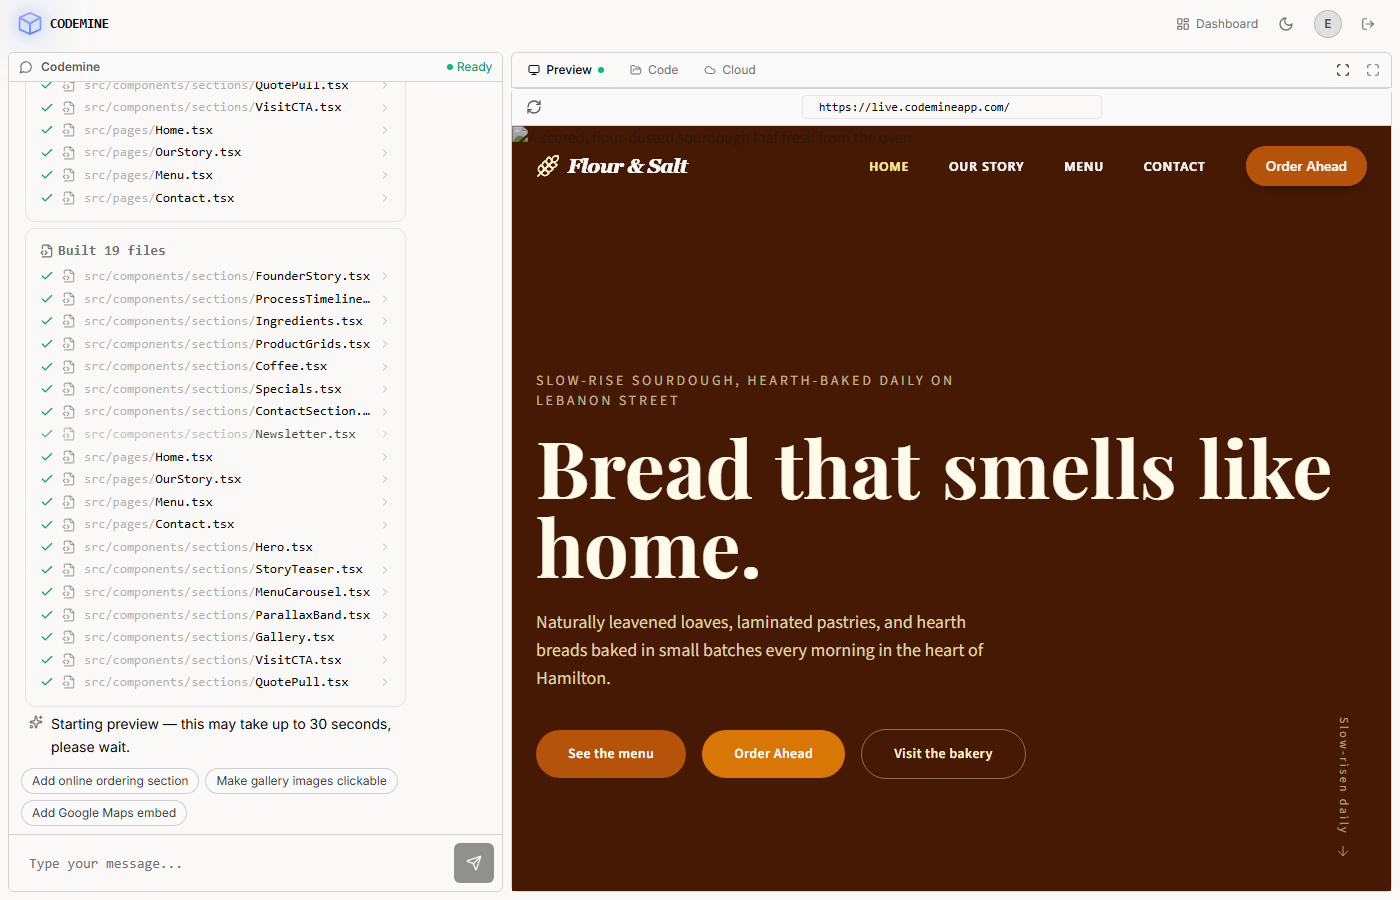
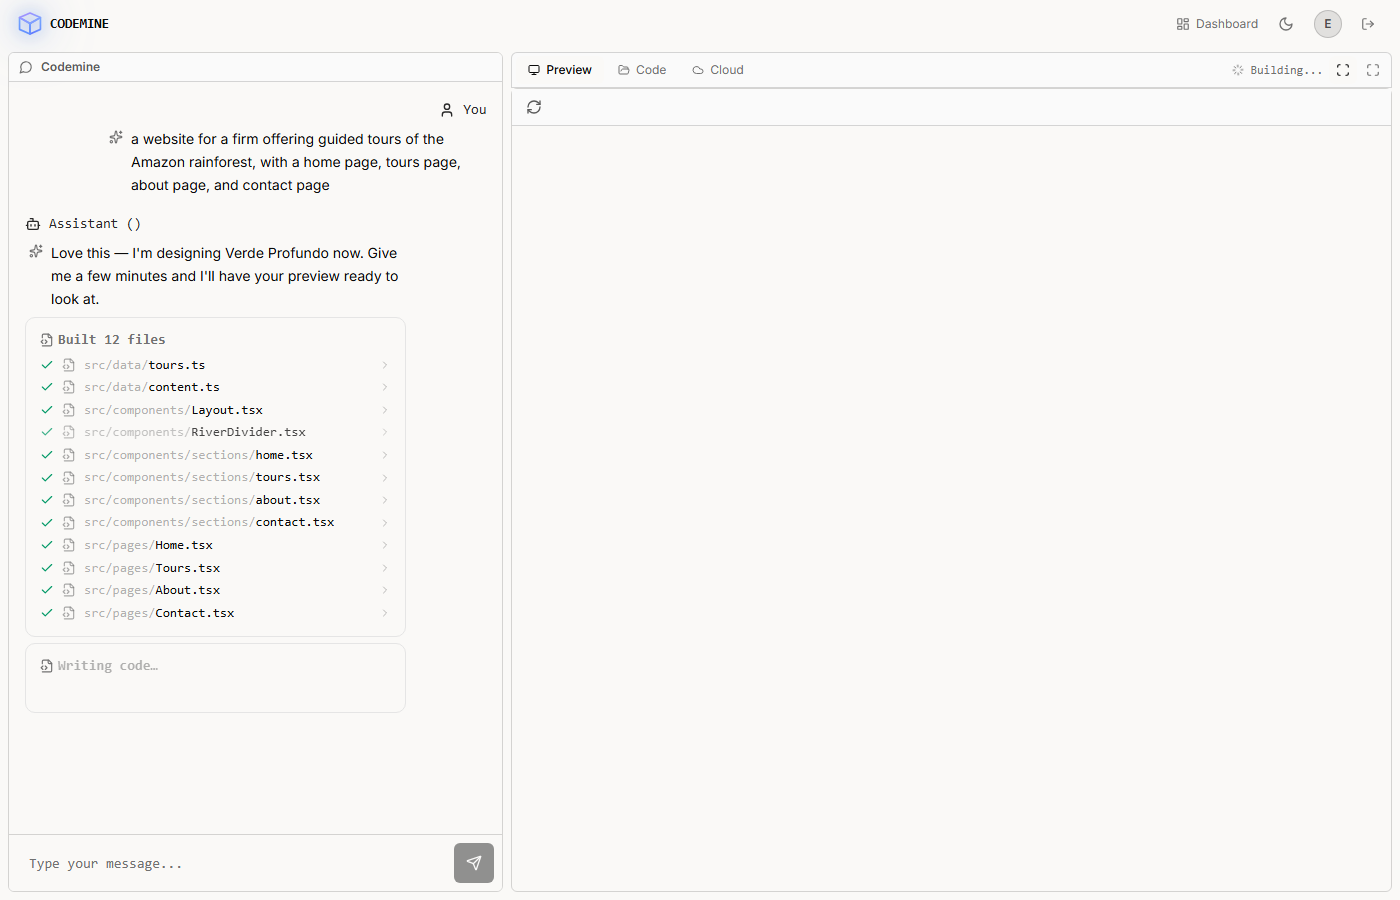
Quality gates: navbar check + scroll check + better image keywords + Kimi K2.6
functionalVerify now detects two critical UX failures before reveal:
- Navbar gate: reports missing <nav> on websites so repair loop fixes it
- Scroll gate: detects overflow:hidden/clip on html/body that silently kills
  all page scrolling

getUnsplashBatch: keyword description now REQUIRES product/industry-specific
terms. "shoes" is banned; "premium handcrafted leather Oxford shoes close-up"
is the standard. This fixes the cars/watches-in-testimonials class of wrong
image bug.

constants.ts: FILE_GENERATION_MODEL switched from Sonnet 5 ($10/M output,
$1.29/build) to Kimi K2.6 ($2.50/M, est. $0.33/build). Purpose-built for
agentic multi-file generation, SWE-bench Pro #1. Env-overridable via
CM_FILE_MODEL without a code change.

diff --git a/lib/pipeline-helpers.ts b/lib/pipeline-helpers.ts
@@ -1119,6 +1119,11 @@ export async function functionalVerify(url: string, userRequest: string, skill: 
       const brokenImgs = imgs.filter(i => i.complete && i.naturalWidth === 0).map(i => (i.getAttribute('src') || i.getAttribute('alt') || 'image').slice(0, 60))
       const sections = q('section, [data-section], main > div')
       const emptySections = sections.filter(s => ((s as HTMLElement).innerText || '').trim().length < 8 && !s.querySelector('img, canvas, svg, video')).length
+      // Scroll check: overflow:hidden on html or body silently kills scrolling
+      const htmlOF = window.getComputedStyle(document.documentElement)
+      const bodyOF = window.getComputedStyle(document.body)
+      const scrollBlocked = ['hidden', 'clip'].includes(htmlOF.overflow) || ['hidden', 'clip'].includes(bodyOF.overflow) ||
+        ['hidden', 'clip'].includes(htmlOF.overflowY) || ['hidden', 'clip'].includes(bodyOF.overflowY)
       return {
         buttons: q('button, [role=button], a[href]').slice(0, 12).map(label),
         inputs: q('input, textarea, select').slice(0, 8).map(label),
@@ -1129,8 +1134,10 @@ export async function functionalVerify(url: string, userRequest: string, skill: 
         imgCount: imgs.length,
         brokenImgs: brokenImgs.slice(0, 6),
         emptySections,
+        navCount: q('nav, [role="navigation"], header nav').length,
+        scrollBlocked,
       }
-    }).catch(() => ({ buttons: [] as string[], inputs: [] as string[], headings: [] as string[], hasCanvas: false, buttonCount: 0, inputCount: 0, imgCount: 0, brokenImgs: [] as string[], emptySections: 0 }))
+    }).catch(() => ({ buttons: [] as string[], inputs: [] as string[], headings: [] as string[], hasCanvas: false, buttonCount: 0, inputCount: 0, imgCount: 0, brokenImgs: [] as string[], emptySections: 0, navCount: 1, scrollBlocked: false }))
 
     const responded: string[] = []
     const dead: string[] = []
@@ -1172,6 +1179,8 @@ export async function functionalVerify(url: string, userRequest: string, skill: 
       `Controls that did NOT respond (dead): ${dead.join(', ') || '(none)'}\n` +
       `Images: ${inventory.imgCount} total, ${inventory.brokenImgs.length} BROKEN: ${inventory.brokenImgs.join(', ') || '(none)'}\n` +
       `Empty sections: ${inventory.emptySections}\n` +
+      `Navigation bars (<nav>): ${inventory.navCount}\n` +
+      `Scroll blocked (overflow:hidden on html/body): ${inventory.scrollBlocked}\n` +
       `Screen changed during use: ${before !== after}`
 
     let ok = dead.length === 0
@@ -1179,6 +1188,10 @@ export async function functionalVerify(url: string, userRequest: string, skill: 
     const contentIssues: string[] = []
     if (inventory.brokenImgs.length > 0) contentIssues.push(`Broken images: ${inventory.brokenImgs.join(', ')}. Use Unsplash URLs.`)
     if (inventory.emptySections >= 2) contentIssues.push(`${inventory.emptySections} sections are EMPTY. Fill every section with real copy and imagery.`)
+    // Navbar gate: websites MUST have a nav bar — it's the primary navigation for multi-page sites
+    if (skill === 'website' && inventory.navCount === 0) contentIssues.push('No navigation bar found (<nav> element missing). Layout.tsx MUST render a sticky nav with links to all pages. Add it now.')
+    // Scroll gate: overflow:hidden on html/body silently kills all scrolling
+    if (inventory.scrollBlocked) contentIssues.push('Page scroll is BLOCKED — overflow:hidden or overflow:clip is set on <html> or <body>. Remove it. Use overflow:hidden only on specific contained sections, never on the root.')
     try {
       const res = await generateText({
         ...getModelOptions(ERROR_MODEL),

diff --git a/ai/tools/get-unsplash-batch.ts b/ai/tools/get-unsplash-batch.ts
@@ -72,11 +72,14 @@ export const getUnsplashBatch = () =>
   tool({
     description:
       'Fetch multiple photo URLs in one call — all requests run in parallel. Use this instead of calling getUnsplash multiple times. ' +
-      'Pass all image keywords at once. Returns an array of URLs in the same order as the input keywords.',
+      'Pass all image keywords at once. Returns an array of URLs in the same order as the input keywords. ' +
+      'CRITICAL: every keyword MUST include the specific product/industry/subject. NEVER use generic terms like "shoes", "food", "product", "person", "background". ' +
+      'BAD: "shoes" | "leather" | "product photo" | "lifestyle". ' +
+      'GOOD: "premium handcrafted leather Oxford dress shoes close-up" | "Australian outback tannery leather hides" | "luxury shoe store interior warm lighting" | "leather craftsman stitching footwear workshop".',
     inputSchema: z.object({
       images: z.array(
         z.object({
-          keyword: z.string().describe('Descriptive search term, e.g. "Japanese sushi restaurant warm lighting"'),
+          keyword: z.string().describe('Highly specific keyword including the exact product/industry/subject. Include material, style, setting and mood. Example: "premium leather Oxford shoes polished dark wood background" NOT "shoes" or "product".'),
           orientation: z.enum(['landscape', 'portrait', 'squarish']).optional().default('landscape'),
         })
       ).max(30).optional().default([]).describe('List of all images needed for the project'),

diff --git a/ai/constants.ts b/ai/constants.ts
@@ -29,12 +29,11 @@
 // Pinned to the official DATED slug (…-20260731) for launch stability — the undated
 // alias floats to whatever DeepSeek ships next and can silently change the provider pool.
 export const DEFAULT_MODEL = 'deepseek/deepseek-v4-flash-20260731'
-// Claude Sonnet 5 via OpenRouter: confirmed 200 OK in diag. Cross-file consistent.
-// Thinking disabled via gateway.ts. Caching via cache_control on system message.
-// Env-overridable so we can A/B the initial-generation model (the ONE expensive call —
-// everything else already runs on cheap DeepSeek) from the Vercel env via a free redeploy,
-// without a code change. Default stays Sonnet 5. Set CM_FILE_MODEL to test e.g. all-DeepSeek-Pro.
-export const FILE_GENERATION_MODEL = process.env.CM_FILE_MODEL || 'anthropic/claude-sonnet-5'
+// Kimi K2.6 via OpenRouter: purpose-built for agentic multi-file coding (swarm-trained, single API call).
+// SWE-bench Pro #1 (58.6%), LiveCodeBench 89.6%. $0.60/$2.50 per M → ~$0.33/build vs $1.29 with Sonnet 5.
+// Fallback: CM_FILE_MODEL=deepseek/deepseek-v4-pro-0813 for the proven AKAMI $0.45 path.
+// A/B env-overridable without a code change (set CM_FILE_MODEL in Vercel dashboard).
+export const FILE_GENERATION_MODEL = process.env.CM_FILE_MODEL || 'moonshotai/kimi-k2.6'
 export const EDIT_MODEL = 'deepseek/deepseek-v4-flash-20260731'
 export const ERROR_MODEL = 'deepseek/deepseek-v4-flash-20260731'
 export const ORCHESTRATION_MODEL = 'deepseek/deepseek-v4-flash-20260731'
